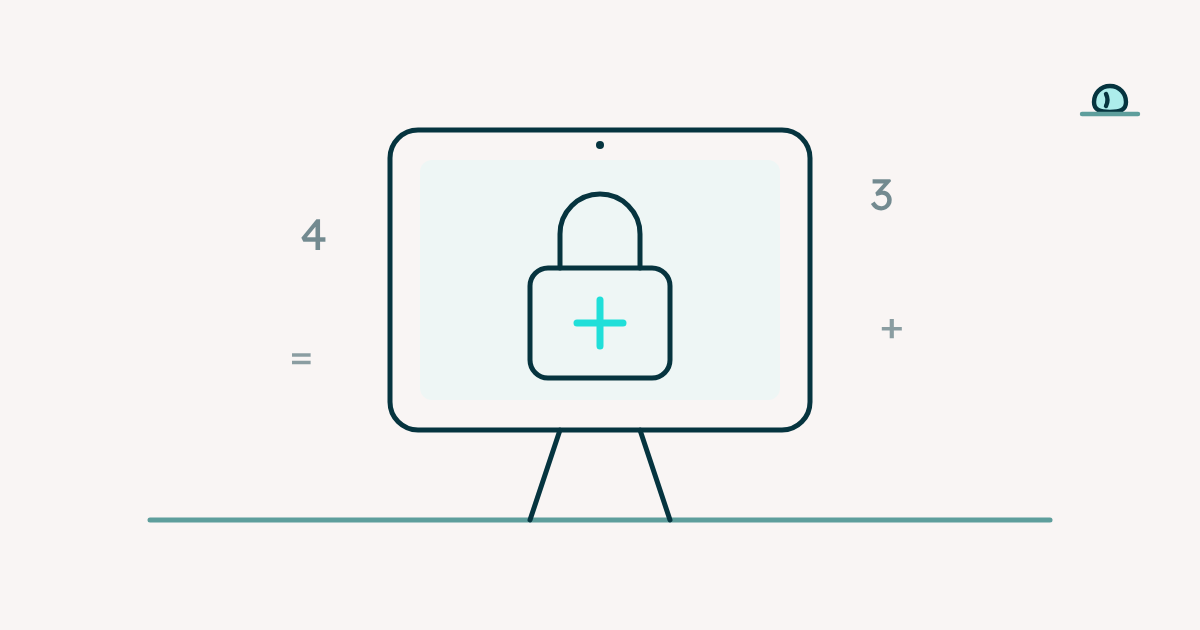
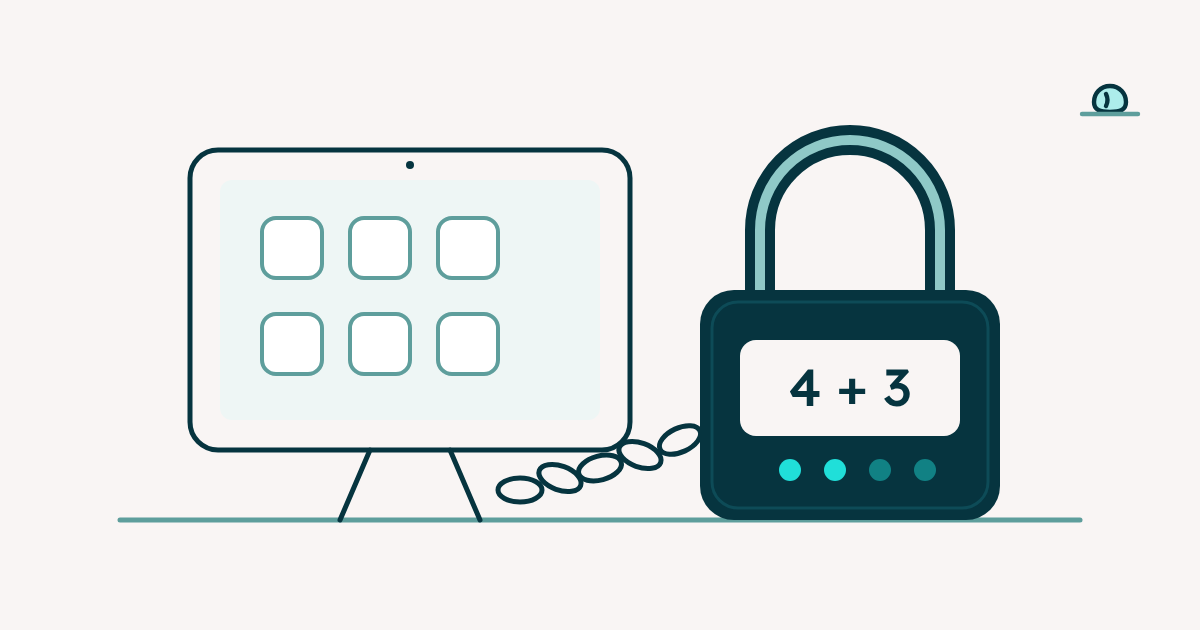
Garden: date Story 1 January 2024; redraw its image as a tablet and a math padlock
Claude-Session: https://claude.ai/code/session_01JyMh7zskpRqVrSxN7TcDeR

diff --git a/src/content/garden/en/started-for-my-son.md b/src/content/garden/en/started-for-my-son.md
@@ -1,8 +1,8 @@
 ---
 title: PlugBrain started as a solution for my son
 description: My son loved his tablet and struggled with math at school. So I made the way back to his tablet go through a few simple sums.
-date: 2026-11-09
-imageAlt: "A tablet with a padlock on its screen; the keyhole is a plus sign."
+date: 2024-01-15
+imageAlt: "A tablet chained to a padlock whose screen shows 4 + 3."
 stage: seed
 ---
 
